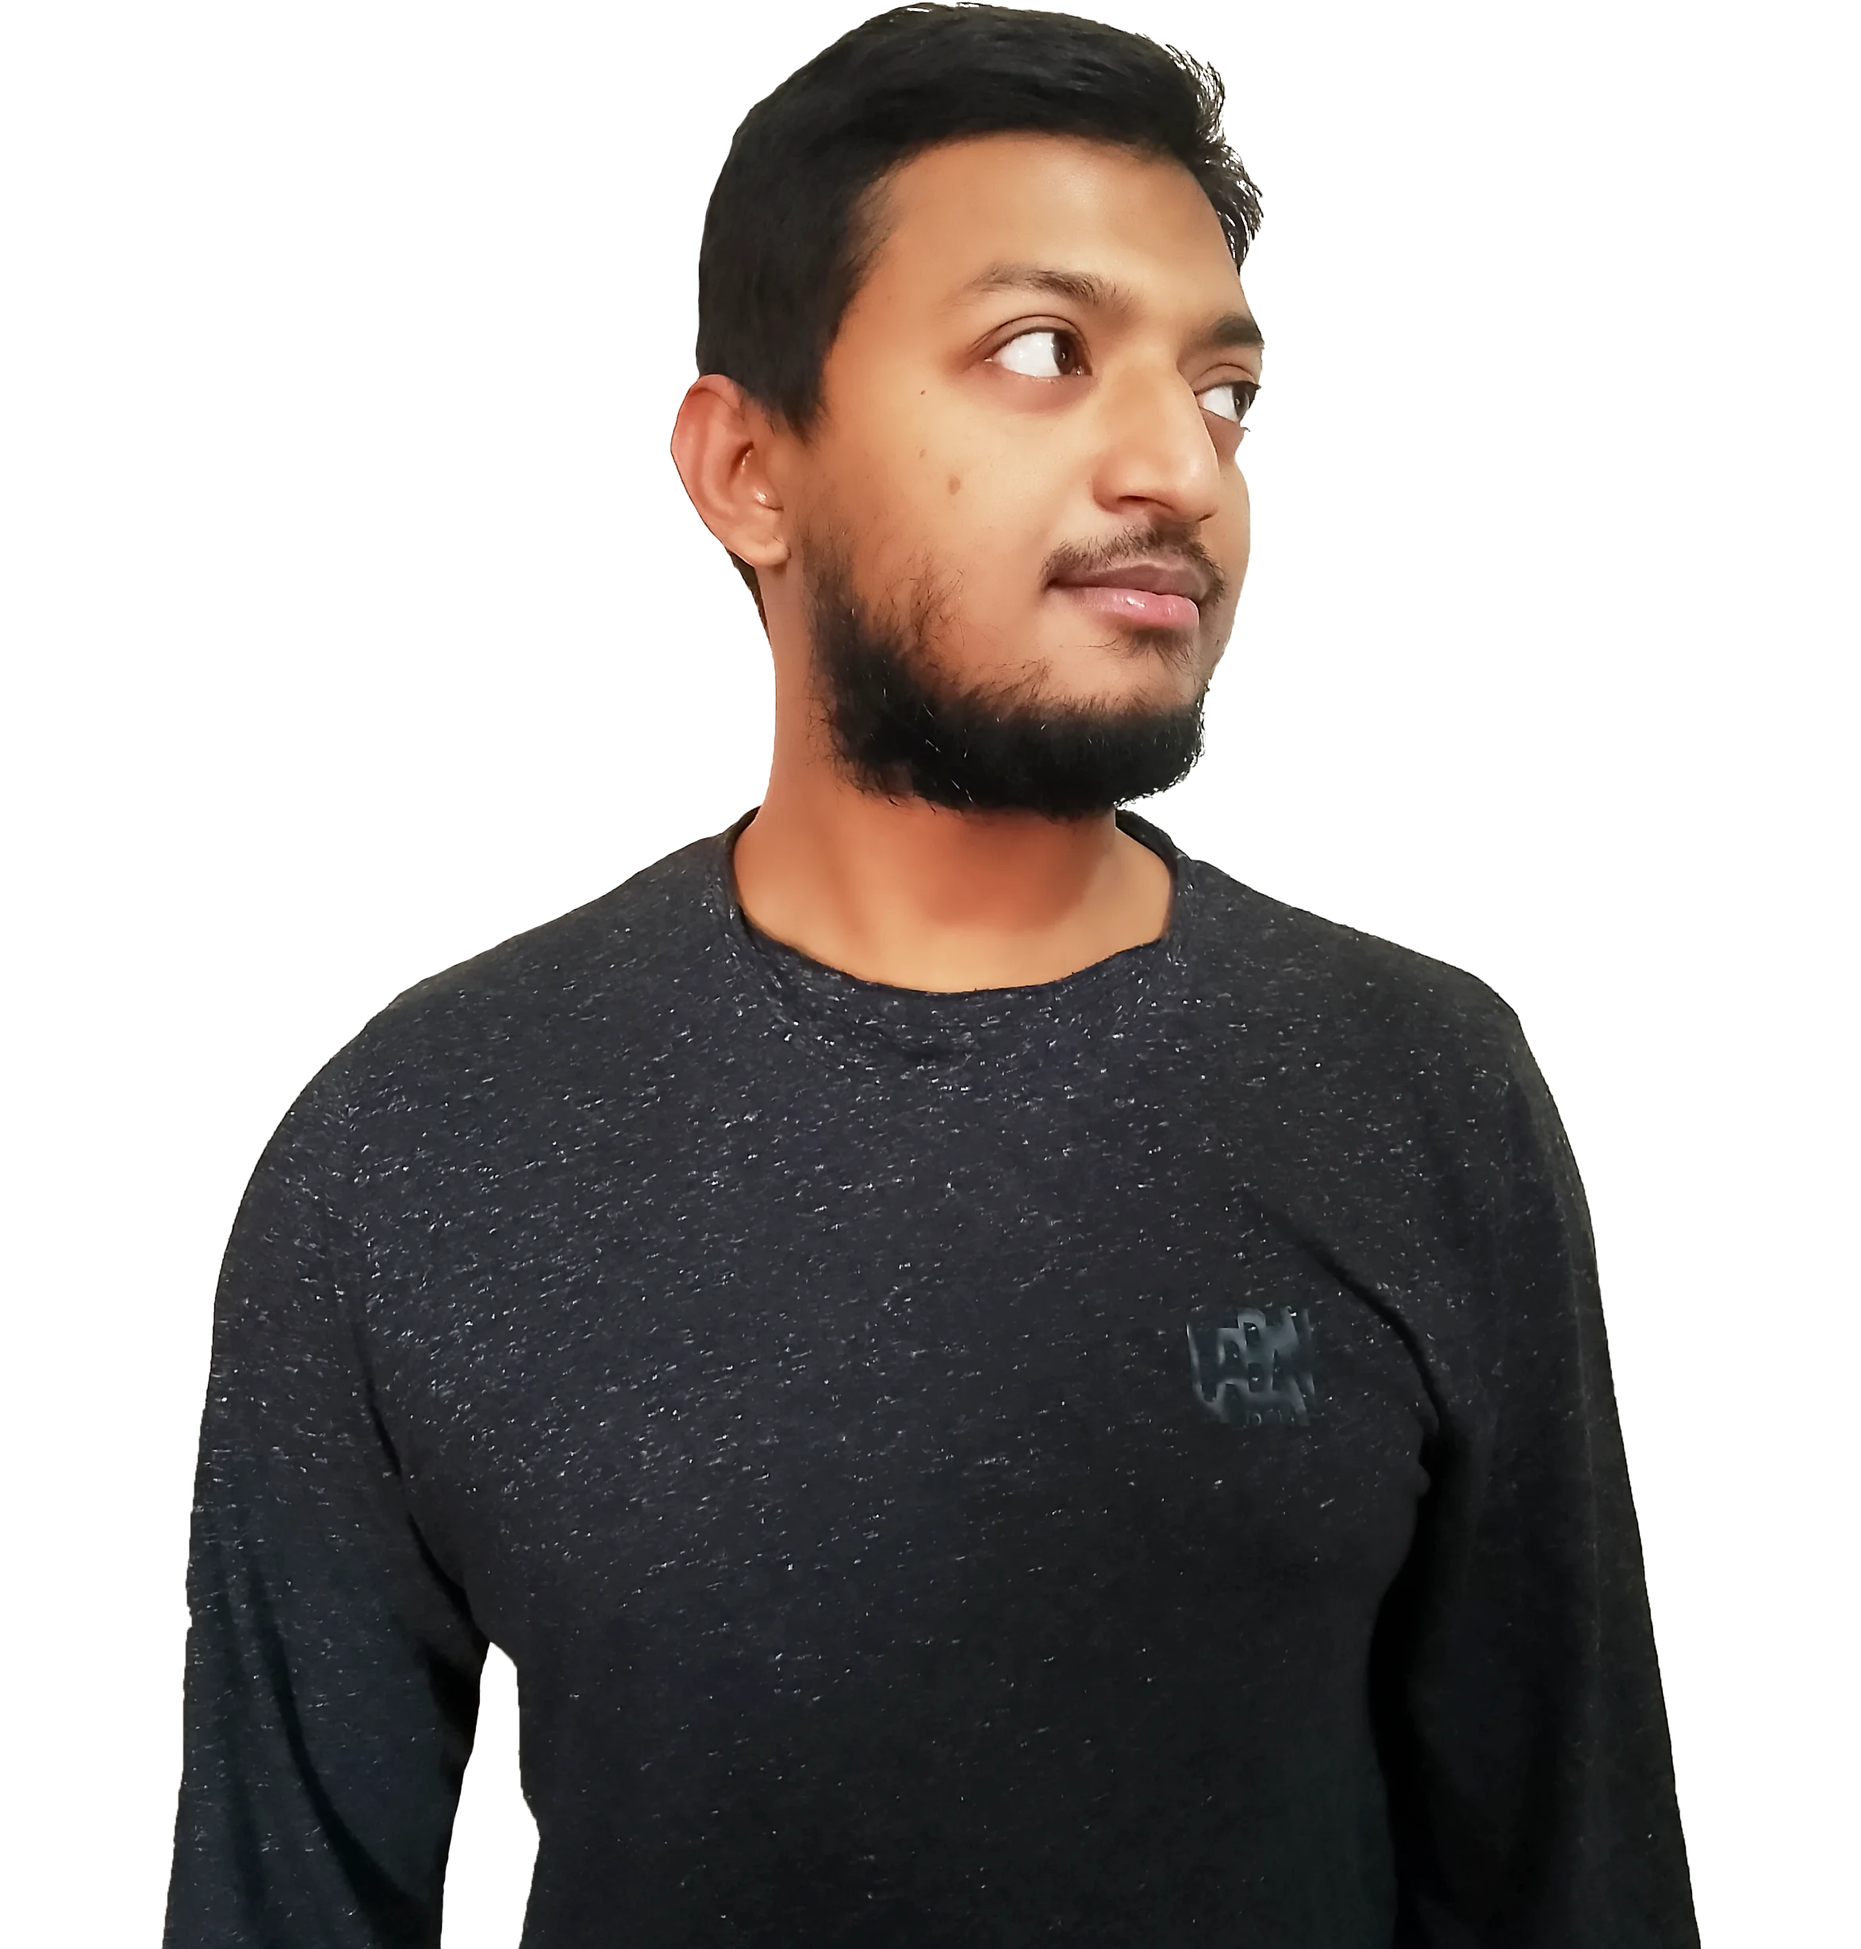
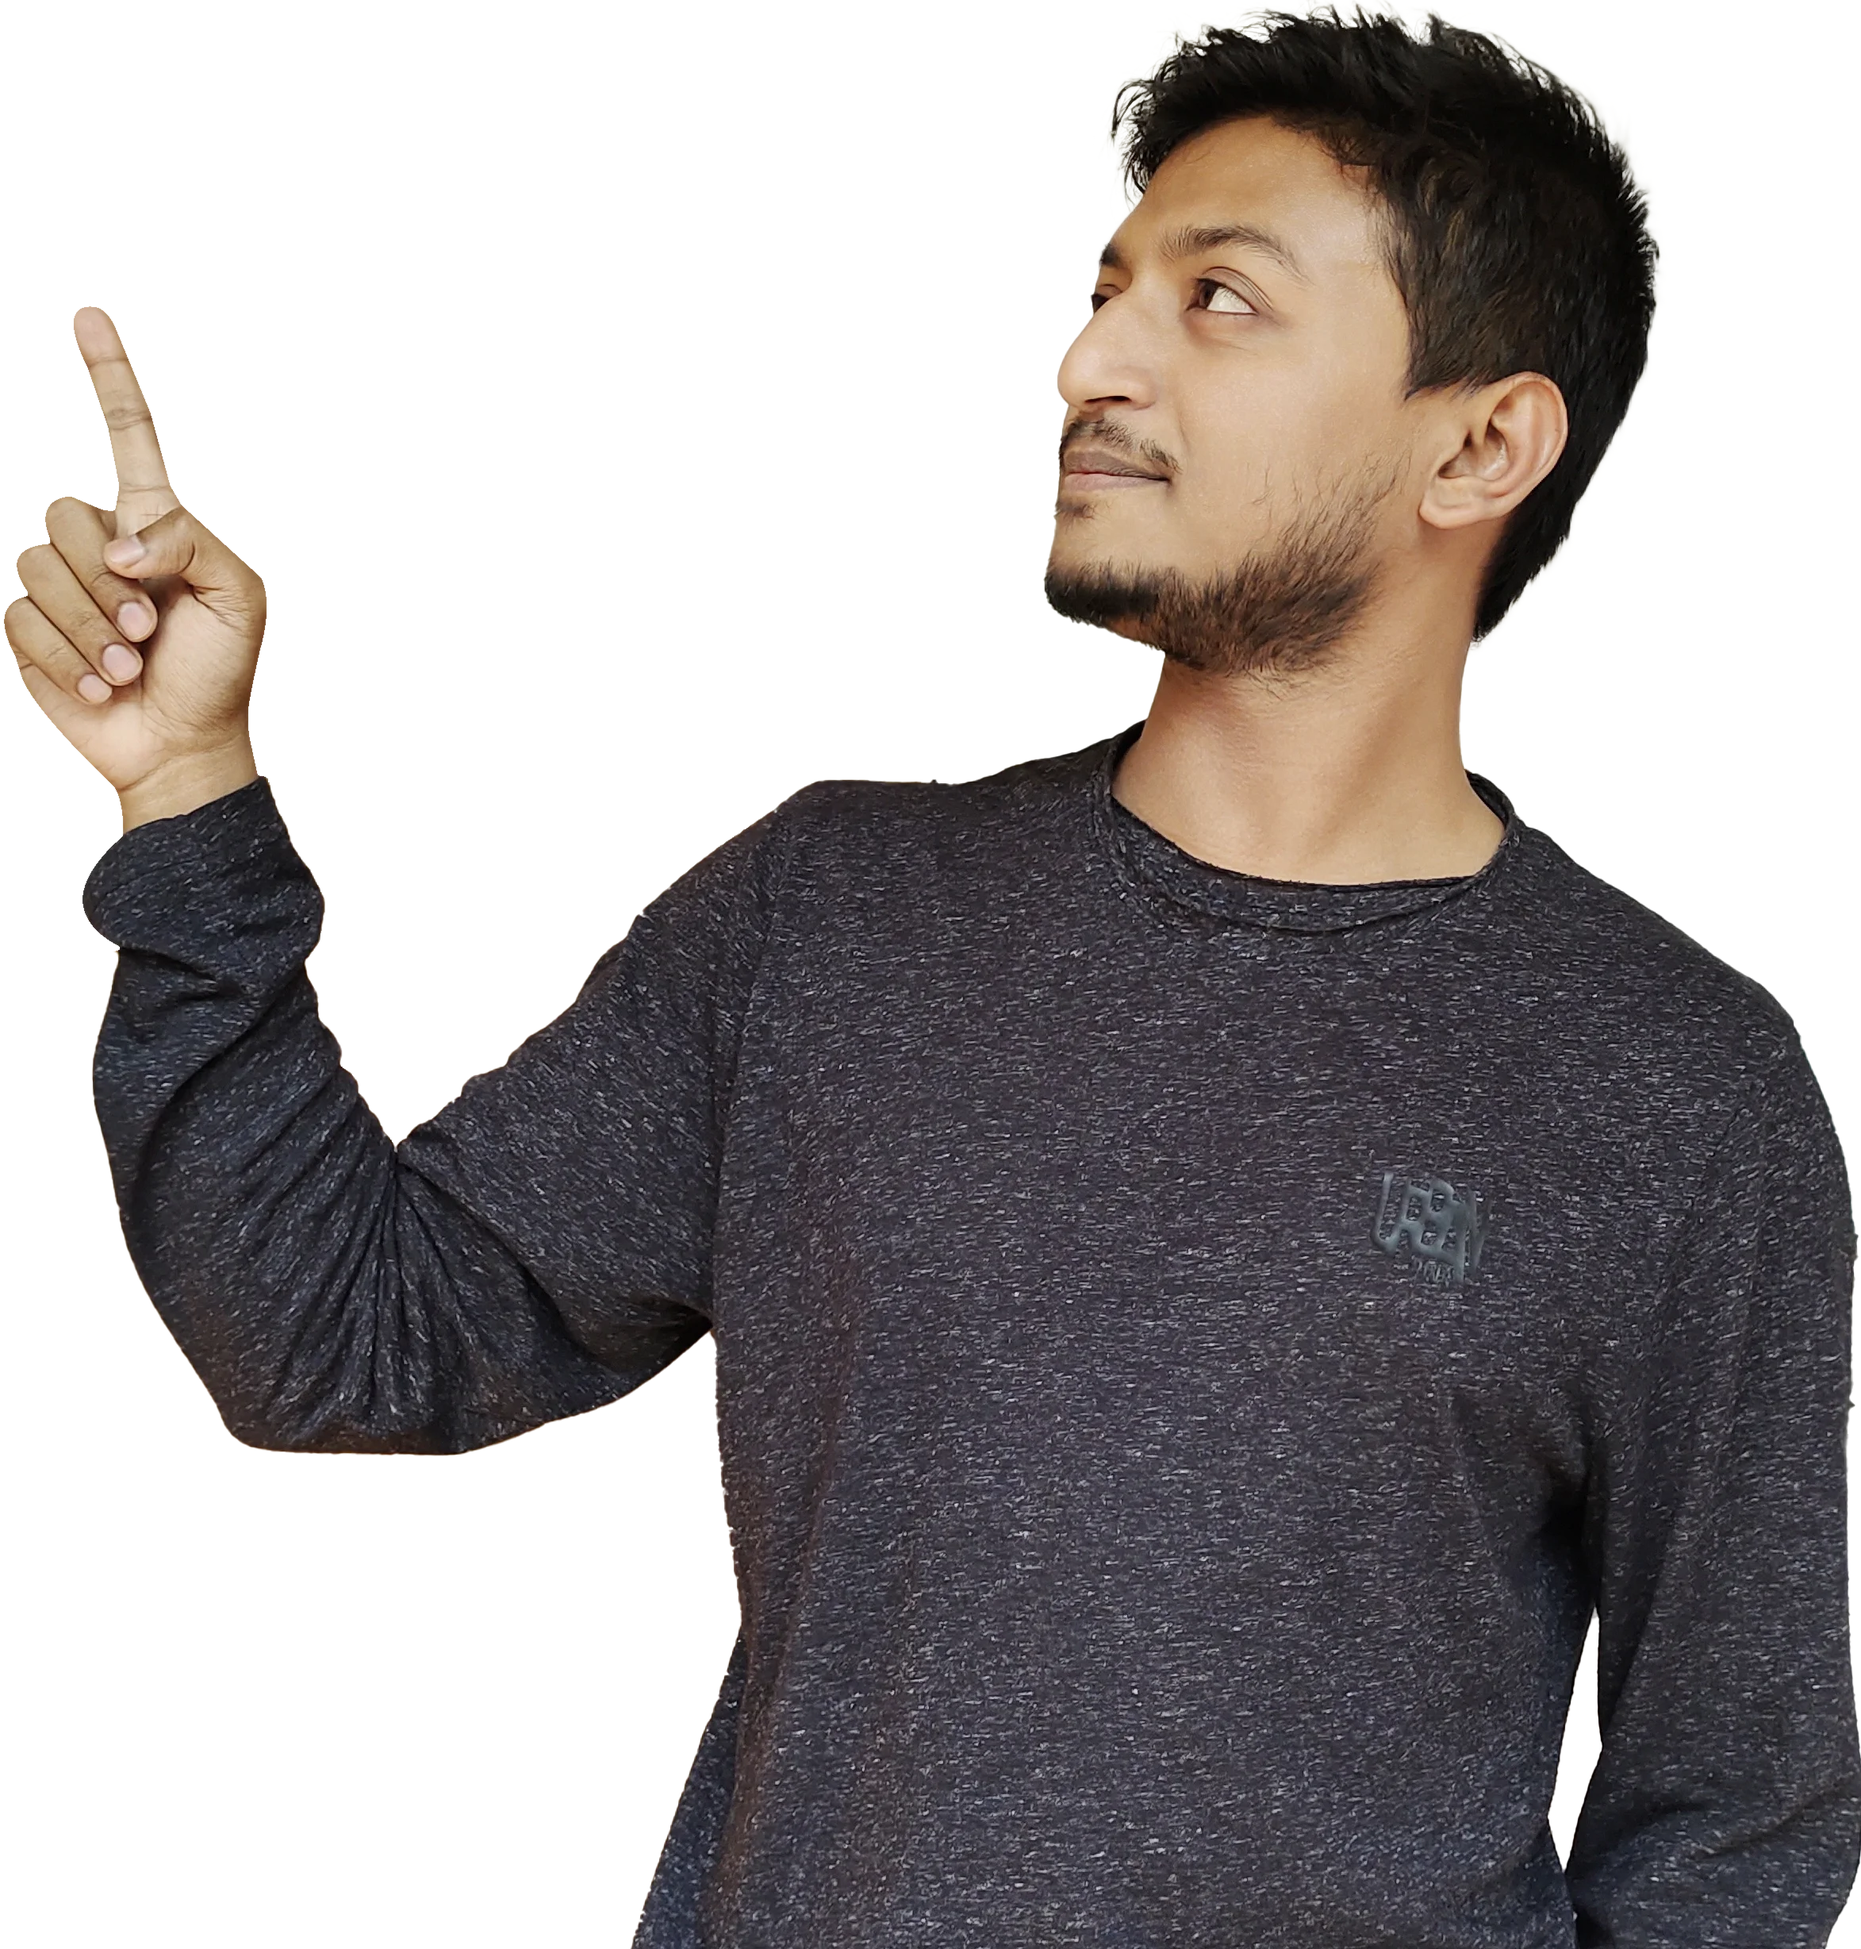
update5

diff --git a/src/app/styles/bookacall.module.css b/src/app/styles/bookacall.module.css
@@ -4,6 +4,7 @@
 #bookacall img {
     height: auto !important;
     width: 100% !important;
+    transform: rotateY(180deg);
 }
 #bookacall h2{
     font-size: 50px;
